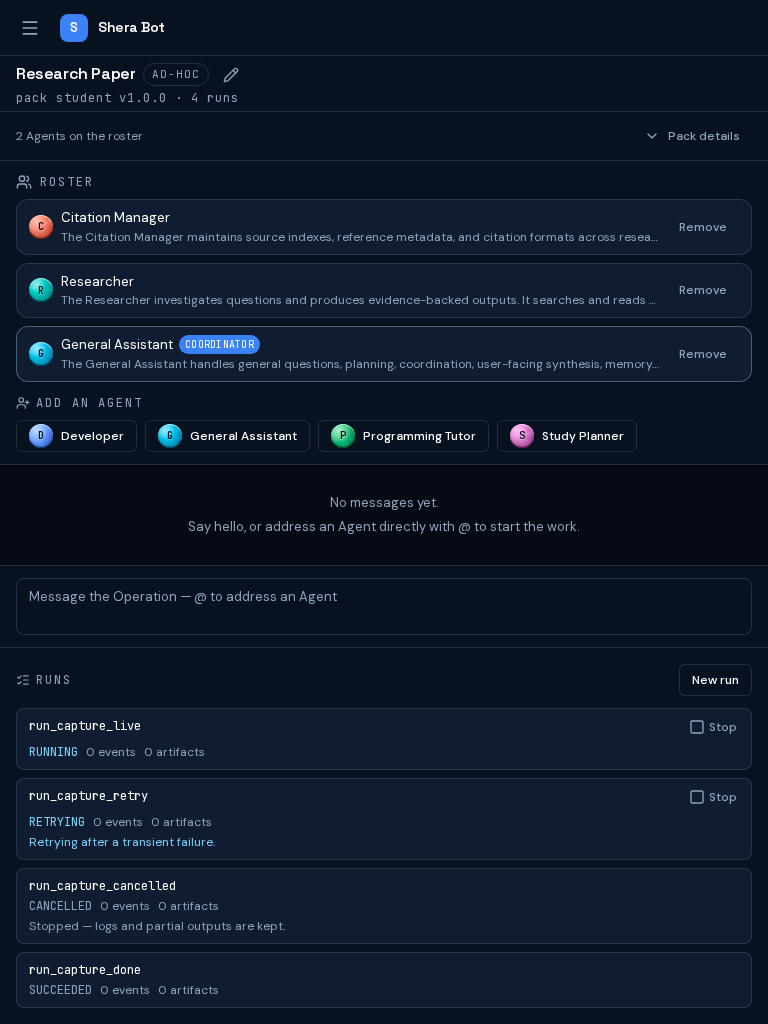
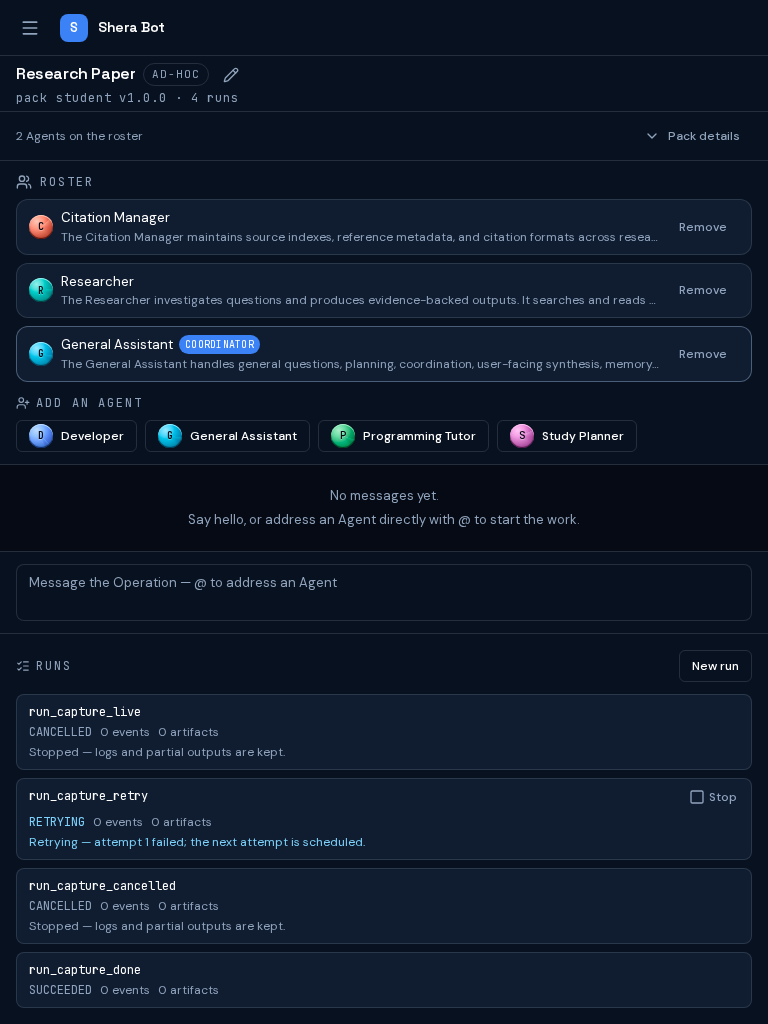
fix(s22): the stop confirmation closes when the run settles (per-run visibility) — taste-pass finding; final S22 browser captures (1440/768/360 + keyboard + reduced motion, prod build)

diff --git a/apps/web/components/operations/operation-runs-panel.tsx b/apps/web/components/operations/operation-runs-panel.tsx
@@ -200,8 +200,22 @@ export function OperationRunsPanel({
   cancelSafeError?: string | undefined;
   className?: string;
 }) {
-  // The inline confirmation is panel-local state: one run confirms at a time.
+  // The inline confirmation is panel-local state: one run confirms at a
+  // time. It CLOSES itself the moment the run leaves the confirmable set —
+  // a settled cancel (or any state change that answers the question) must
+  // never leave a stale "Stop this run?" dialog under its own answer.
   const [confirmingRunId, setConfirmingRunId] = useState<string | null>(null);
+  const confirmingRun =
+    confirmingRunId !== null
+      ? runs.find((candidate) => candidate.run_id === confirmingRunId)
+      : undefined;
+  const confirmVisible =
+    confirmingRun !== undefined &&
+    ACTIVE_RUN_STATES.has(confirmingRun.state) &&
+    confirmingRun.state !== "CANCELLING";
+  if (!confirmVisible && confirmingRunId !== null) {
+    setConfirmingRunId(null);
+  }
   const cancellingHere = confirmingRunId !== null && cancelPendingRunId === confirmingRunId;
   return (
     <section
@@ -253,7 +267,7 @@ export function OperationRunsPanel({
                 data-run-state={run.state}
                 className={cn(
                   "rounded-lg border border-line bg-surface-elevated px-3 py-2",
-                  confirming && "border-approval",
+                  confirmVisible && confirming && "border-approval",
                 )}
               >
                 <div className="flex items-start justify-between gap-2">
@@ -346,7 +360,7 @@ export function OperationRunsPanel({
                   </p>
                 ) : null}
                 {linkage ? <GitLinkageLine linkage={linkage} /> : null}
-                {confirming && onCancelRun !== undefined ? (
+                {confirming && confirmVisible && onCancelRun !== undefined ? (
                   <StopConfirmation
                     runId={run.run_id}
                     childCount={childCount}
